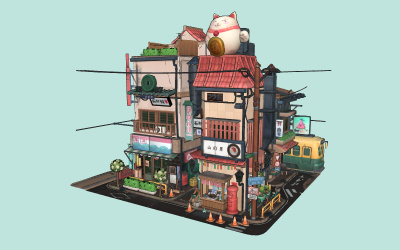
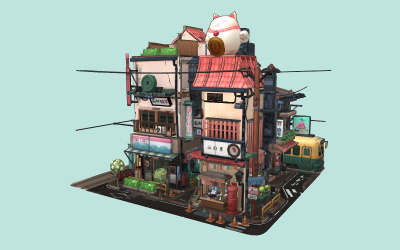
Examples: Use RoomEnvironment in webgl_animation_keyframes

diff --git a/examples/webgl_animation_keyframes.html b/examples/webgl_animation_keyframes.html
@@ -34,6 +34,8 @@
 			import Stats from './jsm/libs/stats.module.js';
 
 			import { OrbitControls } from './jsm/controls/OrbitControls.js';
+			import { RoomEnvironment } from './jsm/environments/RoomEnvironment.js';
+
 			import { GLTFLoader } from './jsm/loaders/GLTFLoader.js';
 			import { DRACOLoader } from './jsm/loaders/DRACOLoader.js';
 
@@ -51,8 +53,11 @@
 			renderer.outputEncoding = THREE.sRGBEncoding;
 			container.appendChild( renderer.domElement );
 
+			const pmremGenerator = new THREE.PMREMGenerator( renderer );
+
 			const scene = new THREE.Scene();
 			scene.background = new THREE.Color( 0xbfe3dd );
+			scene.environment = pmremGenerator.fromScene( new RoomEnvironment(), 0.04 ).texture;
 
 			const camera = new THREE.PerspectiveCamera( 40, window.innerWidth / window.innerHeight, 1, 100 );
 			camera.position.set( 5, 2, 8 );
@@ -62,21 +67,6 @@
 			controls.update();
 			controls.enablePan = false;
 			controls.enableDamping = true;
-
-			scene.add( new THREE.HemisphereLight( 0xffffff, 0x000000, 0.4 ) );
-
-			const dirLight = new THREE.DirectionalLight( 0xffffff, 1 );
-			dirLight.position.set( 5, 2, 8 );
-			scene.add( dirLight );
-
-			// envmap
-			const path = 'textures/cube/Park2/';
-			const format = '.jpg';
-			const envMap = new THREE.CubeTextureLoader().load( [
-				path + 'posx' + format, path + 'negx' + format,
-				path + 'posy' + format, path + 'negy' + format,
-				path + 'posz' + format, path + 'negz' + format
-			] );
 
 			const dracoLoader = new DRACOLoader();
 			dracoLoader.setDecoderPath( 'js/libs/draco/gltf/' );
@@ -88,12 +78,6 @@
 				const model = gltf.scene;
 				model.position.set( 1, 1, 0 );
 				model.scale.set( 0.01, 0.01, 0.01 );
-				model.traverse( function ( child ) {
-
-					if ( child.isMesh ) child.material.envMap = envMap;
-
-				} );
-
 				scene.add( model );
 
 				mixer = new THREE.AnimationMixer( model );
